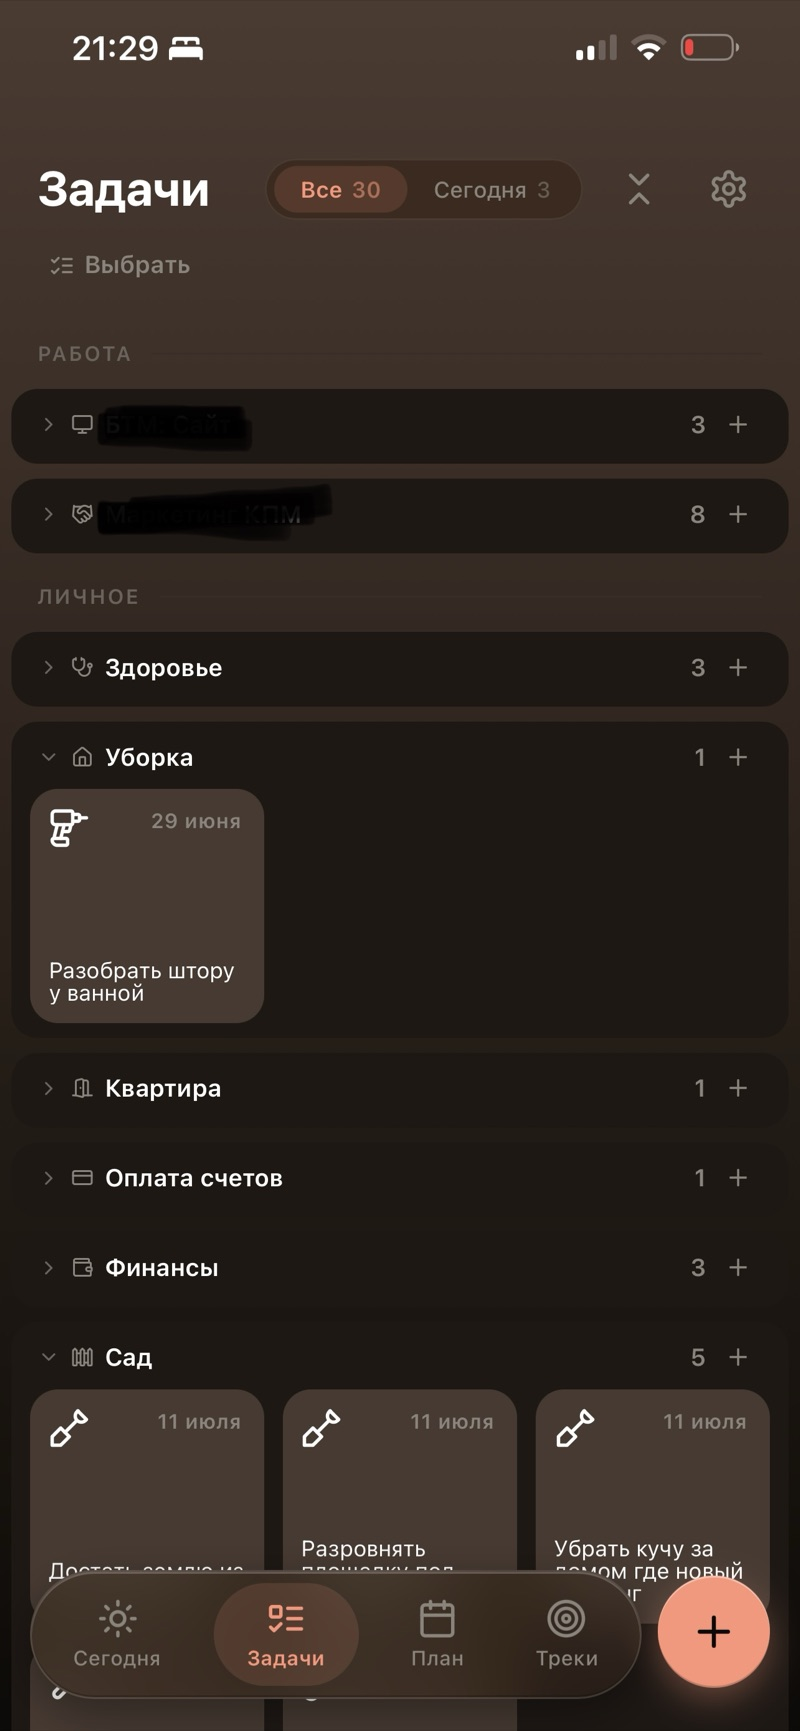
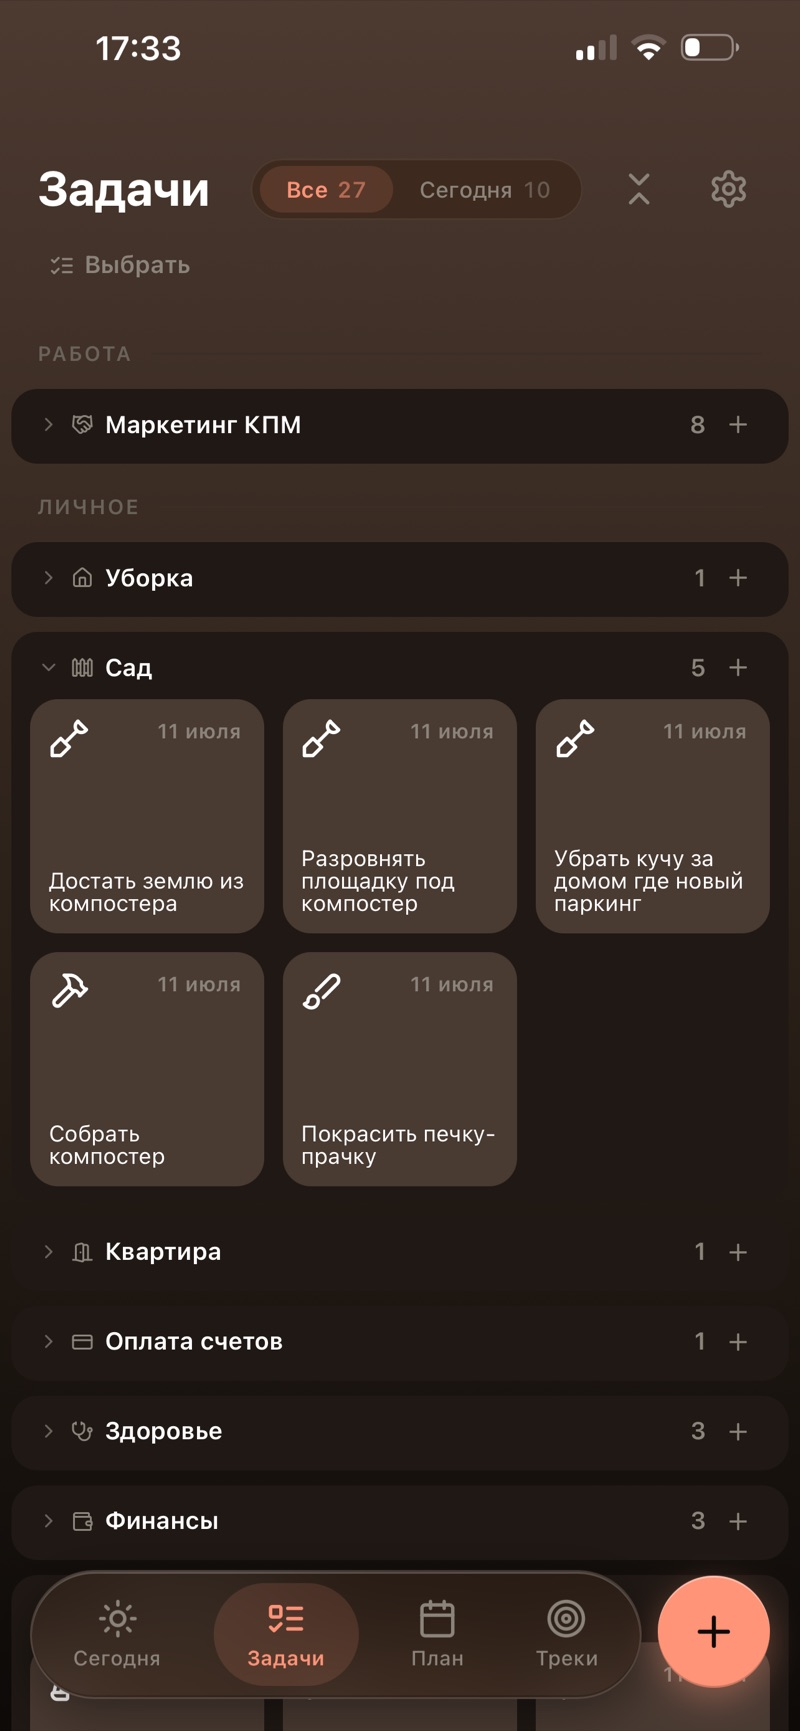
works: кейс Tasks — светлый annotated-блок (крупный телефон + выноски) + чистый скрин
- секция «Приложение для задач» переверстана: светлая тёплая полоса во всю ширину,
  крупный телефон по центру, 4 выноски (фильтр/категории/карточка/таб-бар) по референсу
- task-app-1.jpg заменён на чистый кадр (снят флаг замазанного скрина; чинит и case-tasks)
- заголовок «Избранные работы» убран
- <1320px: выноски прячутся (не влезают под zoom:1.3), телефон крупный по центру

diff --git a/index.html b/index.html
@@ -188,6 +188,73 @@
   /* первый телефон заезжает верхом на блок выше */
   .work--first .work__phone{ margin-top:-235px; margin-bottom:0; }
 
+  /* mobile case — светлый блок с телефоном и выносками */
+  .mcase{
+    display:block; text-decoration:none; color:var(--ink);
+    background:radial-gradient(120% 140% at 78% 20%, #f5f3ef 0%, #ece9e3 55%, #e6e2da 100%);
+    margin:0 calc(-1 * var(--pad)) 48px; overflow:hidden;
+  }
+  .mcase__inner{
+    display:grid; grid-template-columns:1fr 600px; gap:40px; align-items:center;
+    max-width:1280px; margin:0 auto; padding:56px 32px;
+  }
+  .mcase__kicker{ display:flex; align-items:center; gap:14px; margin-bottom:22px; }
+  .mcase__kicker span:first-child{
+    font-family:var(--mono); font-size:12px; letter-spacing:.14em;
+    text-transform:uppercase; color:var(--accent);
+  }
+  .mcase__kicker span:last-child{ height:1px; width:56px; background:rgba(58,58,54,.3); }
+  .mcase__title{
+    margin:0; font-family:var(--head); font-size:46px; font-weight:700;
+    letter-spacing:-0.03em; line-height:0.98;
+  }
+  .mcase__meta{
+    font-size:13px; text-transform:uppercase; letter-spacing:.06em;
+    color:var(--muted); margin-top:16px;
+  }
+  .mcase__desc{
+    margin:22px 0 0 0; font-size:17px; line-height:1.62;
+    color:var(--body); max-width:42ch;
+  }
+  .mcase__more{
+    display:inline-flex; align-items:center; gap:10px; margin-top:30px;
+    font-size:15px; font-weight:600; color:var(--accent);
+  }
+
+  .mcase__stage{ position:relative; width:600px; height:600px; margin:0 auto; }
+  .mcase__phone{
+    position:absolute; left:185px; top:51px; width:230px; height:498px;
+    border-radius:34px; overflow:hidden; z-index:2;
+    background-image:url('assets/task-app-1.jpg'); background-size:cover; background-position:top center;
+    box-shadow:0 30px 66px rgba(0,0,0,.24); border:1px solid rgba(0,0,0,.06);
+  }
+  .mc-line{ position:absolute; height:1px; background:rgba(58,58,54,.35); z-index:4; }
+  .mc-dot{
+    position:absolute; width:8px; height:8px; border-radius:50%;
+    background:var(--accent); transform:translate(-50%,-50%); z-index:4;
+  }
+  .mc-label{ position:absolute; width:130px; z-index:4; }
+  .mc-label--left{ text-align:right; }
+  .mc-label__t{ font-family:var(--head); font-size:17px; font-weight:700; letter-spacing:-0.01em; line-height:1.15; color:var(--ink); }
+  .mc-label__s{ font-size:13px; line-height:1.35; color:var(--muted); margin-top:5px; }
+
+  /* ноутбук и уже: убрать выноски (не влезают под zoom), телефон по центру */
+  @media (max-width:1320px){
+    .mcase__inner{ grid-template-columns:1fr 360px; gap:32px; }
+    .mcase__stage{ width:360px; height:560px; }
+    .mcase__phone{ left:50%; top:24px; transform:translateX(-50%); }
+    .mc-dot, .mc-line, .mc-label{ display:none; }
+  }
+  @media (max-width:820px){
+    .mcase__inner{ grid-template-columns:1fr; gap:24px; }
+    .mcase__stage{ width:100%; height:540px; }
+  }
+  @media (max-width:600px){
+    .mcase__title{ font-size:36px; }
+    .mcase__stage{ height:470px; }
+    .mcase__phone{ width:210px; height:454px; top:24px; }
+  }
+
   /* services */
   .services{
     padding:56px var(--pad); display:grid;
@@ -328,29 +395,43 @@
 
     <!-- works -->
     <section id="works" class="works">
-      <div class="works__head">
-        <div class="works__title">Избранные работы</div>
-      </div>
-
-      <a class="work work--first" href="case-tasks.html">
-        <div>
-          <div class="work__row"><h3 class="work__title">Приложение для задач</h3></div>
-          <div class="work__tag">Личный продукт · дизайн + код</div>
-          <p class="work__desc">Менеджер задач, который я придумал, нарисовал и собрал сам. Обычный список со временем начинает давить — поэтому здесь один и тот же набор задач показан с нескольких ракурсов: по трекам, по времени и по застрявшим.</p>
-          <div class="work__feats">
-            <div class="work__feat"><svg width="20" height="20" viewBox="0 0 24 24" stroke-width="1.4" stroke-linecap="round" stroke-linejoin="round"><polygon points="13 2 4 14 11 14 10 22 20 10 13 10 13 2"/></svg><span>Офлайн-PWA, без бэкенда</span></div>
-            <div class="work__feat"><svg width="20" height="20" viewBox="0 0 24 24" stroke-width="1.4" stroke-linecap="round" stroke-linejoin="round"><polyline points="20 5 20 9 16 9"/><polyline points="4 19 4 15 8 15"/><path d="M19 9A7.5 7.5 0 0 0 6 6.5"/><path d="M5 15a7.5 7.5 0 0 0 13 2.5"/></svg><span>Синхрон с личной вики</span></div>
-            <div class="work__feat"><svg width="20" height="20" viewBox="0 0 24 24" stroke-width="1.4" stroke-linecap="round" stroke-linejoin="round"><rect x="3" y="7" width="5" height="10" rx="1"/><rect x="9.5" y="7" width="5" height="10" rx="1"/><rect x="16" y="7" width="5" height="10" rx="1"/></svg><span>Один список — три ракурса</span></div>
-            <div class="work__feat"><svg width="20" height="20" viewBox="0 0 24 24" stroke-width="1.4" stroke-linecap="round" stroke-linejoin="round"><rect x="3.5" y="3.5" width="7" height="7" rx="1.5"/><rect x="13.5" y="3.5" width="7" height="7" rx="1.5"/><rect x="3.5" y="13.5" width="7" height="7" rx="1.5"/><rect x="13.5" y="13.5" width="7" height="7" rx="1.5"/></svg><span>Виджет на «Домой» без Apple Developer</span></div>
+      <a class="mcase" href="case-tasks.html">
+        <div class="mcase__inner">
+          <div class="mcase__text">
+            <div class="mcase__kicker"><span>Мобильный кейс</span><span></span></div>
+            <h3 class="mcase__title">Приложение<br>для задач</h3>
+            <div class="mcase__meta">iOS · продуктовый UI/UX</div>
+            <p class="mcase__desc">Тёплая тёмная тема, крупная типографика и карточки задач с иконками категорий. Спокойный интерфейс, который не давит списками — от идеи до продакшн-макетов.</p>
+            <span class="mcase__more">Открыть кейс <span style="font-size:17px;">→</span></span>
           </div>
-          <span class="work__more">Открыть кейс →</span>
-        </div>
-        <div class="work__phone">
-          <img src="assets/task-app-1.jpg" alt="Экран задач">
+
+          <div class="mcase__stage">
+            <div class="mcase__phone"></div>
+
+            <!-- фильтр (справа) -->
+            <div class="mc-line" style="left:415px; top:105px; width:54px;"></div>
+            <div class="mc-dot" style="left:415px; top:105px;"></div>
+            <div class="mc-label" style="left:477px; top:85px;"><div class="mc-label__t">Фильтр «Все / Сегодня»</div><div class="mc-label__s">переключение фокуса без ухода с экрана</div></div>
+
+            <!-- категории (слева) -->
+            <div class="mc-line" style="left:131px; top:173px; width:54px;"></div>
+            <div class="mc-dot" style="left:185px; top:173px;"></div>
+            <div class="mc-label mc-label--left" style="left:0; top:153px;"><div class="mc-label__t">Категории проектов</div><div class="mc-label__s">сворачиваются, свой счётчик и иконка</div></div>
+
+            <!-- карточка задачи (справа) -->
+            <div class="mc-line" style="left:415px; top:270px; width:54px;"></div>
+            <div class="mc-dot" style="left:415px; top:270px;"></div>
+            <div class="mc-label" style="left:477px; top:250px;"><div class="mc-label__t">Карточка задачи</div><div class="mc-label__s">дата и пиктограмма читаются с одного взгляда</div></div>
+
+            <!-- таб-бар (слева) -->
+            <div class="mc-line" style="left:131px; top:519px; width:54px;"></div>
+            <div class="mc-dot" style="left:185px; top:519px;"></div>
+            <div class="mc-label mc-label--left" style="left:0; top:509px;"><div class="mc-label__t">Таб-бар</div><div class="mc-label__s">акцентная кнопка добавления</div></div>
+          </div>
         </div>
       </a>
 
-      <article class="work">
+      <article class="work work--first">
         <div class="work__media work__media--tall"><img src="assets/work-memory.jpg" alt="Национальный портал памяти" style="object-position:top"></div>
         <div>
           <div class="work__row"><h3 class="work__title">Национальный портал памяти</h3></div>